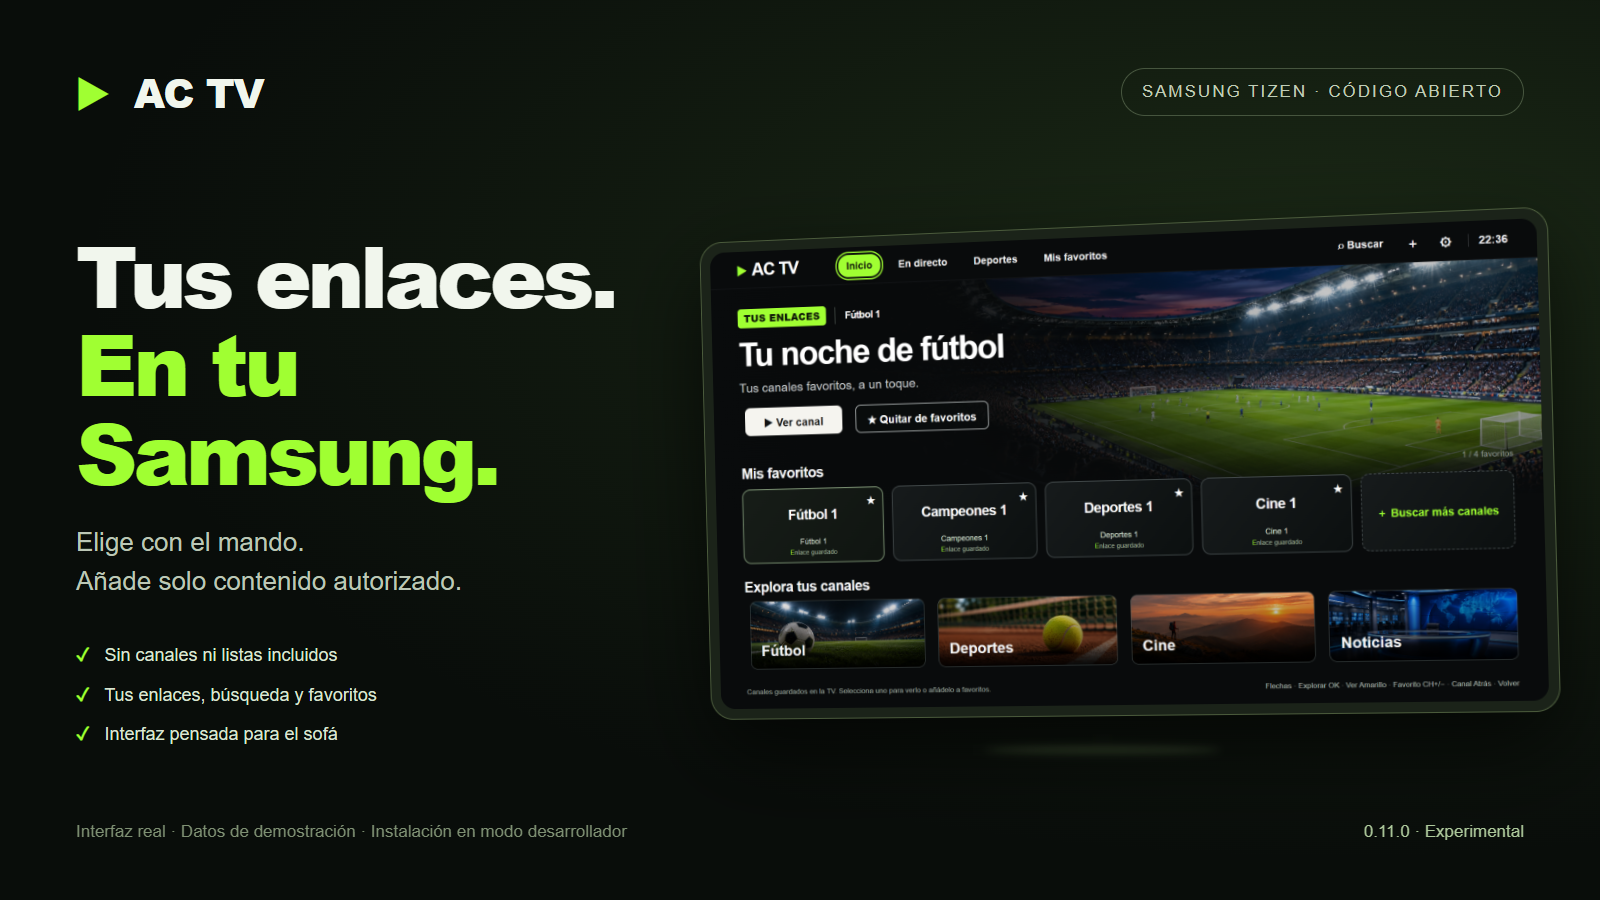
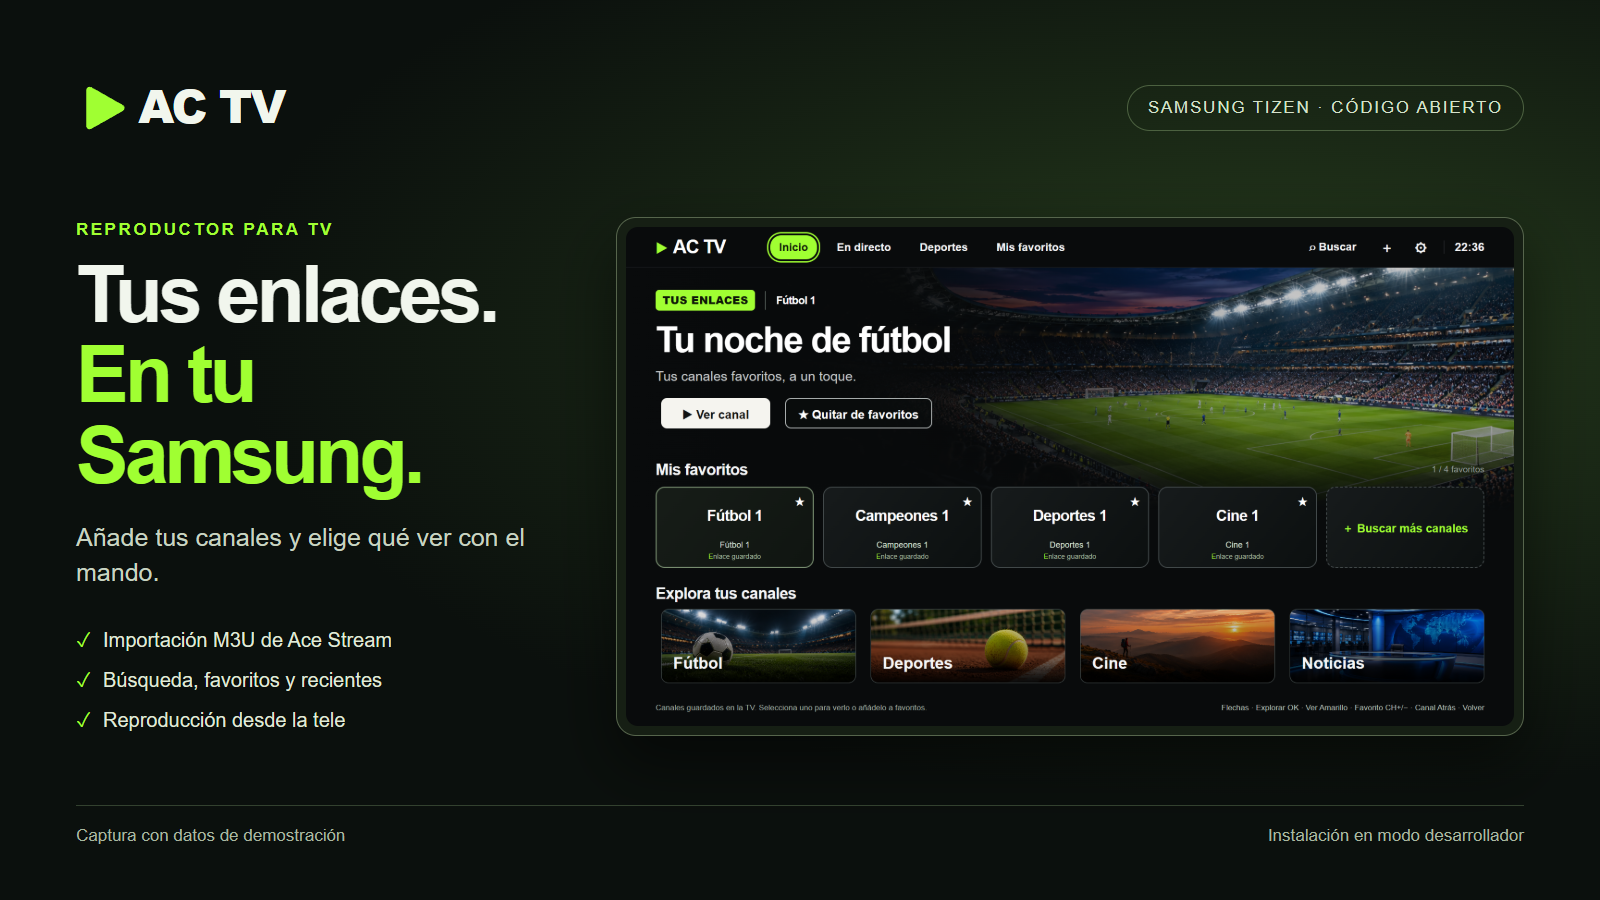
Unify AC TV branding and expand public project guides

diff --git a/work/acetv-native-app/index.html b/work/acetv-native-app/index.html
@@ -4,5 +4,5 @@
 <section class="heading"><span class="eyebrow">DALE AL PLAY</span><h1>Todo listo para<br>tu próximo directo.</h1><p>Elige un canal o abre tu enlace favorito.</p></section>
 <section class="menu-grid"><div class="link-panel"><div class="section-top"><span class="section-number">01</span><h2>Añadir un canal</h2></div><p class="section-copy">Pon un nombre y pega tu enlace Ace Stream.</p><label for="channel-name">Nombre del canal</label><input id="channel-name" placeholder="Mi canal" maxlength="120" autocomplete="off"><label for="source">Enlace o código</label><input id="source" placeholder="acestream://…" spellcheck="false" autocomplete="off"><div class="buttons"><button id="play" class="primary"><span aria-hidden="true">▶</span> Reproducir</button><button id="stop" class="quiet">Parar</button></div><div hidden><input id="engine" value="http://127.0.0.1:6878"><button id="check" hidden></button><button id="import-pc" hidden></button></div><button id="save-channel" class="primary">Guardar canal</button><button id="import-m3u" class="quiet">Importar lista M3U</button></div>
 <div class="browse-panel"><button id="explore" class="explore-card"><span class="explore-art" aria-hidden="true"><i class="art-panel one"></i><i class="art-panel two"></i><i class="art-panel three"></i><b>▶</b></span><span class="explore-kicker">ENCUENTRA TU EMISIÓN</span><strong>Explorar canales</strong><span class="explore-caption">Busca por nombre.<br>Elige con el mando.</span><span class="explore-arrow" aria-hidden="true">↗</span></button><button id="setup" class="setup-launch">Guía de inicio</button><p class="browse-hint">Una pantalla grande.<br>Una forma sencilla de elegir.</p></div></section>
-<div class="status-bar"><span class="status-dot"></span><p id="status" role="status" aria-live="polite">Añade tus enlaces y guárdalos en esta TV.</p></div><footer><span>← → ↑ ↓ <b>Mover</b> &nbsp; OK <b>Elegir</b> &nbsp; Atrás <b>Volver</b></span><span>ACE TV <span class="footer-version">0.13.0</span></span></footer></main>
+<div class="status-bar"><span class="status-dot"></span><p id="status" role="status" aria-live="polite">Añade tus enlaces y guárdalos en esta TV.</p></div><footer><span>← → ↑ ↓ <b>Mover</b> &nbsp; OK <b>Elegir</b> &nbsp; Atrás <b>Volver</b></span><span>ACE TV <span class="footer-version">0.13.1</span></span></footer></main>
 <section id="channel-loading" hidden role="status" aria-live="polite"><div class="loading-content"><span class="loading-brand">▶ AC TV</span><div class="loading-spinner" aria-hidden="true"></div><p id="loading-channel"></p><h1 id="loading-title">Cargando canal…</h1><p id="loading-copy">Enseguida estaremos contigo.</p><div id="loading-actions" hidden><button id="loading-retry">Reintentar</button><button id="loading-back">Volver a canales</button></div><p class="loading-hint">Atrás · Volver a canales</p></div></section><div id="hud" hidden>Ace TV · OK Pausa/Reanudar · Atrás Detener</div><script src="ace-core.js"></script><script src="m3u-core.js"></script><script src="native-transport.js"></script><script src="app.js"></script><script src="catalog-core.js"></script><script src="favorites-core.js"></script><script src="channel-logos.js"></script><script src="library-core.js"></script><script src="library-ui.js"></script><script src="onboarding.js"></script><script src="catalog.js"></script><script src="m3u-ui.js"></script></body></html>

diff --git a/docs/brand/cover.html b/docs/brand/cover.html
@@ -1,0 +1,45 @@
+<!doctype html>
+<html lang="es">
+<meta charset="utf-8">
+<title>AC TV para Samsung</title>
+<style>
+  * { box-sizing: border-box; }
+  html { background: #0b100d; }
+  body { width: 1600px; height: 900px; margin: 0; padding: 68px 76px 54px; color: #f1f6ed;
+    background: radial-gradient(ellipse at 79% 36%, #253a1c, transparent 58%), #0b100d;
+    display: grid; grid-template-rows: 80px 1fr auto; font: 24px Arial, sans-serif; }
+  header, footer { display: flex; align-items: center; justify-content: space-between; }
+  header img { display: block; width: 218px; }
+  .platform { padding: 12px 20px; border-radius: 32px; border: 1px solid #4c6140;
+    color: #d5e2cb; font-size: 17px; letter-spacing: 1.8px; }
+  main { display: grid; grid-template-columns: 490px minmax(0, 1fr); gap: 50px; align-items: center; }
+  .eyebrow { color: #a0ff32; font-size: 17px; font-weight: bold; letter-spacing: 2.5px; }
+  h1 { margin: 14px 0 24px; font-size: 79px; line-height: 1.02; letter-spacing: -4px; }
+  h1 span { color: #a0ff32; }
+  p { color: #c8d4c1; font-size: 25px; line-height: 1.4; margin: 0; }
+  ul { list-style: none; padding: 0; margin: 30px 0 0; color: #e0ead9; font-size: 20px; line-height: 2; }
+  li::before { content: '✓'; margin-right: 12px; color: #a0ff32; }
+  figure { margin: 0; padding: 9px; background: #161f14; border: 1px solid #56654c;
+    border-radius: 20px; box-shadow: 0 28px 62px #0008; }
+  figure img { display: block; width: 100%; aspect-ratio: 16 / 9; border-radius: 12px; }
+  footer { padding-top: 20px; border-top: 1px solid #33412f; font-size: 17px; color: #a9b8a0; }
+</style>
+<header>
+  <img src="../../work/acetv-native-app/brand-acetv.svg" alt="AC TV">
+  <span class="platform">SAMSUNG TIZEN · CÓDIGO ABIERTO</span>
+</header>
+<main>
+  <section>
+    <span class="eyebrow">REPRODUCTOR PARA TV</span>
+    <h1>Tus enlaces.<br><span>En tu Samsung.</span></h1>
+    <p>Añade tus canales y elige qué ver con el mando.</p>
+    <ul>
+      <li>Importación M3U de Ace Stream</li>
+      <li>Búsqueda, favoritos y recientes</li>
+      <li>Reproducción desde la tele</li>
+    </ul>
+  </section>
+  <figure><img src="../images/home.png" alt="Interfaz de AC TV con canales ficticios"></figure>
+</main>
+<footer><span>Captura con datos de demostración</span><span>Instalación en modo desarrollador</span></footer>
+</html>

diff --git a/docs/TROUBLESHOOTING.md b/docs/TROUBLESHOOTING.md
@@ -1,0 +1,36 @@
+# Solución de problemas
+
+Esta guía reúne comprobaciones breves. Para instalar desde cero, sigue la [guía de instalación](INSTALL.md); para funciones de la biblioteca, consulta [canales y favoritos](LIBRARY.md).
+
+## El ordenador no detecta la TV
+
+- Enciende la TV y comprueba que el modo desarrollador está activo y tiene la IP actual del ordenador.
+- Conecta ambos equipos a la misma red y confirma cualquier solicitud de autorización que aparezca en la TV.
+- Ejecuta el diagnóstico indicado en [Instalación: diagnosticar la conexión](INSTALL.md#2-diagnosticar-la-conexión-con-la-tv). Si falta `sdb`, instala el SDK o indica su ruta con `-SdbPath`.
+- Si la conexión funciona pero falla la firma, revisa en Certificate Manager que tu perfil incluya esa TV y que los certificados sigan vigentes.
+
+## Un canal no carga o no se oye
+
+- La biblioteca solo guarda enlaces compatibles; guardarlo no confirma que el emisor siga disponible ni que la TV admita su formato.
+- Prueba otro enlace que tengas derecho a reproducir. Comprueba que la TV tenga conexión de red y espera a que termine el búfer.
+- La reproducción inicia conexiones externas y P2P puede comunicar tu IP a otros pares. Revisa [uso responsable y privacidad](RESPONSIBLE_USE.md).
+- La reproducción física de la versión pública aún no está verificada en todos los modelos. Consulta el estado por modelo en [Compatibilidad](COMPATIBILITY.md).
+
+## La lista M3U no añade algunos canales
+
+- AC TV importa enlaces Ace Stream compatibles desde texto o archivos `.m3u`/`.m3u8`; no importa listas IPTV o HLS genéricas.
+- El límite es 2 MiB y 5000 canales. Revisa la vista previa y el recuento de entradas omitidas antes de confirmar.
+- La lista se importa como una copia local. Si el archivo cambia, vuelve a importarlo; los duplicados se omiten.
+- Consulta el formato y los pasos en [Importar una lista M3U](LIBRARY.md#importar-una-lista-m3u).
+
+## El mando no responde como esperaba
+
+- En las vistas de canales, usa las flechas para moverte, **OK** para abrir, el botón amarillo para favoritos y **CH+/CH−** para cambiar de canal.
+- Durante la reproducción, **OK** pausa o reanuda y **Atrás** vuelve a los canales. El comportamiento de algunos botones puede variar según el mando y el modelo.
+- La navegación del selector USB con el mando no está verificada en la TV de referencia; si falla, prueba pegar el texto M3U desde Ajustes.
+
+## Compartir un problema sin exponer datos privados
+
+Abre un issue desde [GitHub Issues](https://github.com/DANIRGZ1/ac-tv-samsung/issues/new/choose) e indica el modelo comercial, versión de software/Tizen, versión de AC TV, sistema operativo del ordenador si aplica y el paso en que falla. Añade pasos para reproducir y el mensaje de error después de quitar datos personales.
+
+No publiques números de serie, DUID, direcciones IP, certificados, contraseñas, enlaces Ace Stream, listas personales ni capturas que los muestren. Para vulnerabilidades, sigue la vía privada descrita en [Seguridad](../SECURITY.md); no las reportes en un issue público.

diff --git a/README.md b/README.md
@@ -5,7 +5,7 @@
 <p align="center">Reproductor experimental de enlaces Ace Stream para Samsung Tizen. Una vez instalado, el motor integrado reproduce desde la tele con AVPlay.</p>
 
 <p align="center">
-  <img alt="Versión pública 0.13.0" src="https://img.shields.io/badge/versi%C3%B3n-0.13.0-A0FF32?labelColor=182016">
+  <img alt="Versión pública 0.13.1" src="https://img.shields.io/badge/versi%C3%B3n-0.13.1-A0FF32?labelColor=182016">
   <img alt="Samsung Tizen" src="https://img.shields.io/badge/Samsung-Tizen-91B8DF?labelColor=182016">
   <a href="LICENSE"><img alt="Licencia AGPL 3.0" src="https://img.shields.io/badge/licencia-AGPL--3.0-CCCCCC?labelColor=182016"></a>
 </p>
@@ -66,3 +66,9 @@ La app guarda la biblioteca y recuerda tu última selección en la tele. [Ver la
 Añade únicamente contenido cuya reproducción y, cuando corresponda, redistribución estén autorizadas. Tú eres responsable de los enlaces que utilizas. Al reproducir, el motor puede consultar metadatos, DNS, trackers y pares. P2P puede compartir tu dirección IP y el identificador del enlace con terceros. [Uso responsable](docs/RESPONSIBLE_USE.md)
 
 AC TV es un proyecto independiente publicado bajo AGPL-3.0-or-later. [Licencia](LICENSE) · [Compilación](docs/BUILD.md) · [Cómo contribuir](CONTRIBUTING.md)
+
+| Si buscas… | Dónde mirar |
+| --- | --- |
+| Cambios entre versiones | [Historial](CHANGELOG.md) |
+| Ayuda con la instalación, M3U o el mando | [Solución de problemas](docs/TROUBLESHOOTING.md) |
+| Cómo reportar un fallo de seguridad | [Política de seguridad](SECURITY.md) |

diff --git a/SECURITY.md b/SECURITY.md
@@ -1,0 +1,15 @@
+# Seguridad
+
+AC TV es un proyecto experimental para Samsung Tizen. Esta política cubre el código de este repositorio y el instalador incluido.
+
+## Comunicar una vulnerabilidad
+
+No publiques vulnerabilidades sin corregir, datos de explotación ni información privada en Issues o Discussions. Si GitHub muestra **Report a vulnerability** en la pestaña **Security** de este repositorio, úsalo para enviar un aviso privado. La disponibilidad de esa función depende de la configuración del repositorio.
+
+Si la opción no aparece, puedes abrir un issue sin detalles técnicos ni información sensible para pedir un medio privado de contacto.
+
+Incluye una descripción breve, pasos para reproducir, impacto observado y la versión o commit afectado. Omite certificados, claves, contraseñas, números de serie, IP públicas y listas o enlaces Ace Stream personales. Coordina la publicación de detalles con quien mantenga el proyecto.
+
+## Alcance
+
+Se consideran dentro del alcance los fallos de seguridad reproducibles en la aplicación, su procesamiento local de enlaces/listas y los scripts de instalación de este repositorio. No envíes contenido de terceros ni informes sobre disponibilidad o autorización de emisiones.

diff --git a/docs/ASSETS.md b/docs/ASSETS.md
@@ -1,5 +1,10 @@
 # Recursos visuales
 
+- [Logo de la aplicación](../work/acetv-native-app/brand-acetv.svg) y [fuente del icono](brand/icon.svg). El paquete Tizen usa `work/acetv-native-app/icon.png`.
+- [Fuente de la portada](brand/cover.html). La pantalla conserva la proporción 16:9 de la captura y se muestra de frente.
+
+Para regenerar el icono y la portada con Chrome instalado, ejecuta `npm ci` y `node work/render-brand.cjs` desde el repositorio.
+
 - `work/acetv-native-app/assets/stadium.png`: fondo generado para el proyecto, sin texto ni logos.
 - `work/acetv-native-app/assets/categories.png`: imágenes genéricas de categorías, sin texto ni logos.
 - `docs/images/`: capturas y composición de portada con interfaz y datos sintéticos. Los nombres de demostración incluyen “Fútbol1” y “Campeones1”; los IDs no son funcionales.

diff --git a/docs/COMPATIBILITY.md b/docs/COMPATIBILITY.md
@@ -12,3 +12,5 @@ En la BU8500 se verificó la vista previa, la cancelación con Atrás, la import
 Si la instalación falla, empieza por el [diagnóstico de conexión](INSTALL.md#2-diagnosticar-la-conexión-con-la-tv). Si llegas a reproducir vídeo, comprueba también el sonido y que la imagen ocupe la pantalla.
 
 Puedes compartir el resultado en [GitHub Issues](https://github.com/DANIRGZ1/ac-tv-samsung/issues/new/choose). Indica el modelo comercial, la versión de software de la TV, la versión de AC TV y hasta qué paso llegaste. Omite números de serie, direcciones IP, certificados, enlaces Ace Stream y listas personales.
+
+Para resolver fallos habituales, consulta la [guía de solución de problemas](TROUBLESHOOTING.md).

diff --git a/CHANGELOG.md b/CHANGELOG.md
@@ -1,0 +1,16 @@
+# Historial de versiones
+
+## 0.13.1
+
+- El icono del menú de Samsung y el logotipo de ajustes usan el triángulo verde de AC TV.
+- La portada muestra la interfaz en horizontal y las guías incluyen ayuda para diagnosticar problemas y reportarlos.
+
+## 0.13.0
+
+- Importación local de listas M3U con enlaces Ace Stream, vista previa y detección de duplicados.
+- Instalación e importación verificadas en una Samsung BU8500 de 2022. [Prueba y alcance](docs/COMPATIBILITY.md)
+
+## 0.12.0
+
+- Recientes, edición de canales, orden de favoritos y recuperación de la última posición en la biblioteca.
+- Comprobación de la conexión con la TV desde el instalador y tutoriales para Codex y Claude Code.
